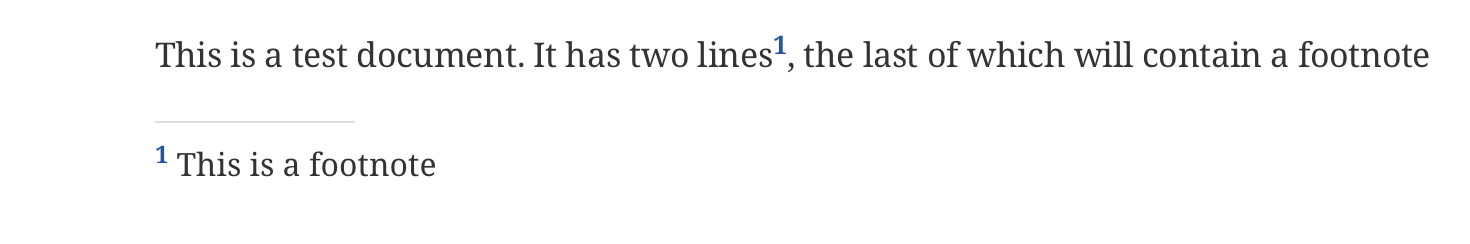
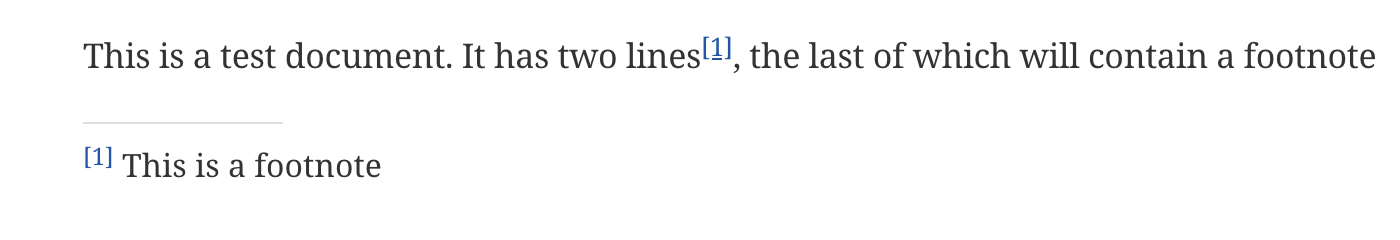
We now default to square brackets on the footnote marker. If you brackets are not needed, then set `lbrace` and `rbrace` to `{empty}` or empty strings.

Changed region(s): [[0.0614, 0.1458, 0.9829, 0.2917], [0.0614, 0.6125, 0.3071, 0.7583], [0.0614, 0.4958, 0.2457, 0.525]]

diff --git a/anywhere-footnote-processor.js b/anywhere-footnote-processor.js
@@ -5,8 +5,7 @@ const _ = require('lodash')
 class AnywhereFootnote {
 
     constructor() {
-
-        this.start = 0
+        
         this.block_id = ""
         this.text_parameter = ""
         this.ref_id = ""
@@ -36,7 +35,7 @@ module.exports = function (registry) {
                 // Then we are looking at the block
                 // type: afnote:first-block[]
 
-                return processBlockMacro(this, parent, target, attributes['omit-separator'])
+                return processFootnoteBlock(this, parent, target, attributes['omit-separator'])
             }
 
             footnote.block_id = target
@@ -55,8 +54,9 @@ module.exports = function (registry) {
             footnote.ref_id = attributes['refid'] ? attributes['refid'] : ''
             footnote.original_ref_id = footnote.ref_id
             footnote.footnote_marker = attributes['marker'] ? attributes['marker'] : ''
-            footnote.lbrace = attributes['lbrace'] ? attributes['lbrace'] : ''
-            footnote.rbrace = attributes['rbrace'] ? attributes['rbrace'] : ''
+            
+            footnote.lbrace = attributes['lbrace'] === undefined ? '&#91;' : attributes['lbrace']
+            footnote.rbrace = attributes['rbrace'] === undefined ? '&#93;' : attributes['rbrace']
 
 
             addFootNoteReferences(footnote)
@@ -73,7 +73,7 @@ module.exports = function (registry) {
         })
 
 
-        function processBlockMacro(self, parent, target, omit_separator) {
+        function processFootnoteBlock(self, parent, target, omit_separator) {
             
             let block_id = target
 
@@ -87,7 +87,8 @@ module.exports = function (registry) {
 
             let footnote_block = ''
             
-            if (!omit_separator && omit_separator !== 'false') {
+            if (omit_separator === undefined || omit_separator === 'false') {
+                
                 footnote_block = `<hr class="footnote-separator"/>\n\n`
             }
             else {
@@ -105,7 +106,7 @@ module.exports = function (registry) {
             
             return self.createInline(parent, 'quoted', footnote_block, {
                 attributes: {
-                    role: 'anywhere-footnote-block',
+                    role: 'anywhere-footnote-block'
                 }
             })
         }

diff --git a/__tests__/anywhere-footnote-test.js b/__tests__/anywhere-footnote-test.js
@@ -14,7 +14,6 @@ describe('Test the processor', () => {
 
     test('Load basic file', () => {
         
-       // noinspection SpellCheckingInspection
         let input_document = ` 
 
 = Test document
@@ -24,9 +23,9 @@ describe('Test the processor', () => {
 ++++
 
 This is a test document.
-It has two lines{empty}afnote:first-block[This is a footnote], the last of which will contain a footnote
+It has two lines{empty}afnote:first-block[This is a footnote, lbrace='{empty}', rbrace='{empty}'], the last of which will contain a footnote
 
-afnote:first-block[omit-separator="true"]
+afnote:first-block[]
 `
 
         let converted_doc = asciidoctor.convert(input_document,{safe: 'safe', standalone: true,

diff --git a/README.md b/README.md
@@ -48,10 +48,13 @@ afnote:my-block[reftext="Footnote text", lbrace="(" rbrace=")"] (5)
 2. You can also set the footnote text using the `reftext` parameter. In this case we are also using the `refid` to set a reusable reference identifier.
 3. The `refid` is used to reference an existing footnote so that multiple footnote references can point to the same footnote.
 4. Normally, the footnotes are numbered per block, but if you wish, you can assign your own marker for any footnote.
-5. The footnotes are marked with a plain number by default, but you can wrap the number in braces by setting the `lbrace` and `rbrace` parameters.
+5. As a default, the footnote markers are encased in square brackets. You can change this (to parentheses, for example) 
+by using the `lbrace` and/or `rbrace` parameters.
 
 > [!TIP] 
-> You don't have to use both parameters. If you set `rbrace=")"`, for example, you can footnote marked like this: `1)`
+> If you don't any kind of bracket encasing the footnote, then set both `lbrace` and `rbrace` to `{empty} or empty strings.`
+>
+> You don't have to use both parameters. If you set `lbrace={empyty}` and  `rbrace=")"`, for example, you can footnote marked like this: `1)`
 
 ## The Stylesheet
 
